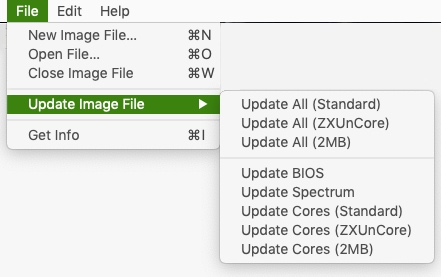
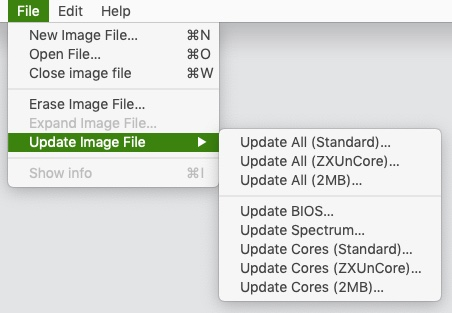
Aded GUI options to erase or expand a flash image

diff --git a/docs/es/manual.html b/docs/es/manual.html
@@ -746,10 +746,10 @@ pre.rouge {
 <p>Para Cores secundarios, mostrar información sobre algunas de las características que podrían tener (Ej: Salida por VGA, uso de joystick, formato soportado de tarjeta SD o MicroSD, etc.)</p>
 </li>
 <li>
-<p>Crear una copia de la imagen y, opcionalmente, truncar alguno (o todos) los cores opcionales (sólo desde la línea de comandos)</p>
+<p>Borrar con ceros todos los datos de los Cores y las ROMs de ZX Spectrum</p>
 </li>
 <li>
-<p>Borrar con 0s todos los datos de los Cores y las ROMs de ZX Spectrum (sólo desde la línea de comandos)</p>
+<p>Crear una copia de la imagen y, opcionalmente, truncar alguno (o todos) los cores opcionales (sólo desde la línea de comandos)</p>
 </li>
 <li>
 <p>Mostrar, añadir o extraer ROMs de un fichero ROMPack v2 (sólo desde la línea de comandos)</p>
@@ -831,11 +831,12 @@ pre.rouge {
 <p><span class="image"><img src="../img/MainWindow.jpg" alt="MainWindow"></span></p>
 </div>
 <div class="paragraph">
-<p>Además, existe un menú desde el que se accede a opciones que permiten crear un nuevo archivo de imagen SPI flash, abrir un fichero existente (de imagen o de otro tipo) para analizarlo o modificarlo (sólo si es de imagen flash), cerrar la edición, <a href="#_actualizar_una_imagen">actualizar el contenido de una imagen</a> o mostrar detalles del core actualmente seleccionado.</p>
+<p>Además, existe un menú desde el que se accede a opciones que permiten crear un nuevo archivo de imagen SPI flash, abrir un fichero existente (de imagen o de otro tipo) para analizarlo o modificarlo (sólo si es de imagen flash), borrar con ceros todos los datos de los Cores y las ROMs, expandir una imagen de ZXDOS+ de 16MB a 32MB, cerrar la edición, <a href="#_actualizar_una_imagen">actualizar el contenido de una imagen</a> o mostrar detalles del core actualmente seleccionado.</p>
 </div>
 <div class="paragraph text-center">
 <p><span class="image"><img src="../img/FileMenu.jpg" alt="FileMenu"></span></p>
 </div>
+<div style="page-break-after: always;"></div>
 <div class="paragraph">
 <p>Al abrir un fichero que no sea de imagen, la herramienta intentará catalogarlo y mostrar los detalles conocidos del mismo:</p>
 </div>
@@ -906,7 +907,6 @@ pre.rouge {
 <div class="paragraph text-center">
 <p><span class="image"><img src="../img/Spectrum.jpg" alt="Spectrum"></span></p>
 </div>
-<div style="page-break-after: always;"></div>
 </div>
 <div class="sect3">
 <h4 id="_cores_secundarios">Cores Secundarios</h4>
@@ -937,6 +937,7 @@ pre.rouge {
 <div class="paragraph text-center">
 <p><span class="image"><img src="../img/ROMsSelect.jpg" alt="ROMsSelect"></span></p>
 </div>
+<div style="page-break-after: always;"></div>
 <div class="paragraph">
 <p>Al cargar un fichero de ROM, se pueden especificar los indicadores para usar al utilizar la ROM, como la contención de memoria, DivMMC, timings de distintos modelos de Spectrum, etc.</p>
 </div>
@@ -1590,7 +1591,7 @@ All rights reserved.</p>
 <div id="footer">
 <div id="footer-text">
 Version 1.0.0<br>
-Last updated 2021-12-19 10:48:05 +0100
+Last updated 2021-12-19 16:07:07 +0100
 </div>
 </div>
 </body>

diff --git a/docs/en/manual.html b/docs/en/manual.html
@@ -746,10 +746,10 @@ pre.rouge {
 <p>For secondary cores, show information about some of the features that they may have (e.g. VGA video out, joystick support, supported SD or microSD formats, etc.)</p>
 </li>
 <li>
-<p>Create a copy of the flash image and, optionally, and/or truncate some (or all) of the optional cores (command line only)</p>
+<p>Wipe with zeros all Cores and ZX Spectrum ROMs data</p>
 </li>
 <li>
-<p>Wipe with 0s all Cores an ZX Spectrum ROMs data (command line only)</p>
+<p>Create a copy of the flash image and, optionally, and/or truncate some (or all) of the optional cores (command line only)</p>
 </li>
 <li>
 <p>List, add or extract ROMs from a ROMPack v2 file (command line only)</p>
@@ -831,11 +831,12 @@ pre.rouge {
 <p><span class="image"><img src="../img/MainWindow.jpg" alt="MainWindow"></span></p>
 </div>
 <div class="paragraph">
-<p>There&#8217;s also a menu wher you can access options to create a new SPI flash image file, open an existing file (either image or other kind) to anlyze or edit (only if it&#8217;s a flash image), stop editing <a href="#_update_an_image">update the contents of an image</a>, or show details for the currently selected core.</p>
+<p>There&#8217;s also a menu wher you can access options to create a new SPI flash image file, open an existing file (either image or other kind) to analyze or edit (only if it&#8217;s a flash image), wipe with zeros all the cores and ROMs data, expand a 16MB ZXDOS+ image to 32MB, stop editing, <a href="#_update_an_image">update the contents of an image</a>, or show details for the currently selected core.</p>
 </div>
 <div class="paragraph text-center">
 <p><span class="image"><img src="../img/FileMenu.jpg" alt="FileMenu"></span></p>
 </div>
+<div style="page-break-after: always;"></div>
 <div class="paragraph">
 <p>When opening a non-image file, the tool will try to analyze and catalog it&#8217;s contents and show the known details for it:</p>
 </div>
@@ -845,7 +846,6 @@ pre.rouge {
 <div class="paragraph">
 <p>Once an image file is open to edit, it&#8217;s possible to make the following modifications.</p>
 </div>
-<div style="page-break-after: always;"></div>
 <div class="sect3">
 <h4 id="_bios">BIOS</h4>
 <div class="paragraph">
@@ -910,7 +910,6 @@ Boot Timer</p></td>
 <div class="paragraph text-center">
 <p><span class="image"><img src="../img/Spectrum.jpg" alt="Spectrum"></span></p>
 </div>
-<div style="page-break-after: always;"></div>
 </div>
 <div class="sect3">
 <h4 id="_secondary_cores">Secondary cores</h4>
@@ -950,7 +949,6 @@ Boot Timer</p></td>
 <div class="paragraph">
 <p>The settings for each ROM are listed with a letter code that is explained in the <a href="#_rom_parameters">appendix at the end of this manual</a>.</p>
 </div>
-<div style="page-break-after: always;"></div>
 </div>
 <div class="sect3">
 <h4 id="_update_an_image">Update an image</h4>
@@ -1597,7 +1595,7 @@ All rights reserved.</p>
 <div id="footer">
 <div id="footer-text">
 Version 1.0.0<br>
-Last updated 2021-12-19 10:47:26 +0100
+Last updated 2021-12-19 16:09:30 +0100
 </div>
 </div>
 </body>

diff --git a/zx123_tool_gui/_main_gui.py b/zx123_tool_gui/_main_gui.py
@@ -31,38 +31,40 @@ def build_menubar(self):
 
     menubar = tk.Menu(self)
     filemenu = tk.Menu(menubar, tearoff=0)
-    filemenu.add_command(label='New Image File...',
+    filemenu.add_command(label='New Image File…',
                          command=self.new_image,
                          accelerator=f'{str_accl}n')
-    filemenu.add_command(label='Open File...',
+    filemenu.add_command(label='Open File…',
                          command=self.open_file,
                          accelerator=f'{str_accl}O')
-    filemenu.add_command(label='Close Image File',
+    filemenu.add_command(label='Close File',
                          accelerator=f'{str_accl}w',
                          command=self.full_close_image)
     filemenu.add_separator()
 
     updatemenu = tk.Menu(menubar, tearoff=0)
-    updatemenu.add_command(label='Update All (Standard)',
+    filemenu.add_command(label='Erase Image File…', command=self.erase_image)
+    filemenu.add_command(label='Expand Image File…', command=self.expand_image)
+    updatemenu.add_command(label='Update All (Standard)…',
                            command=lambda: self.update_image('all'))
     updatemenu.add_command(
-        label='Update All (ZXUnCore)',
+        label='Update All (ZXUnCore)…',
         command=lambda: self.update_image('all', get_1core=True))
     updatemenu.add_command(
-        label='Update All (2MB)',
+        label='Update All (2MB)…',
         command=lambda: self.update_image('all', get_2mb=True))
     updatemenu.add_separator()
-    updatemenu.add_command(label='Update BIOS',
+    updatemenu.add_command(label='Update BIOS…',
                            command=lambda: self.update_image('BIOS'))
-    updatemenu.add_command(label='Update Spectrum',
+    updatemenu.add_command(label='Update Spectrum…',
                            command=lambda: self.update_image('Spectrum'))
-    updatemenu.add_command(label='Update Cores (Standard)',
+    updatemenu.add_command(label='Update Cores (Standard)…',
                            command=lambda: self.update_image('Cores'))
     updatemenu.add_command(
-        label='Update Cores (ZXUnCore)',
+        label='Update Cores (ZXUnCore)…',
         command=lambda: self.update_image('Cores', get_1core=True))
     updatemenu.add_command(
-        label='Update Cores (2MB)',
+        label='Update Cores (2MB)…',
         command=lambda: self.update_image('Cores', get_1core=True))
     filemenu.add_cascade(label='Update Image File', menu=updatemenu)
 
@@ -117,7 +119,9 @@ def build_menubar(self):
 
     self.filemenu.entryconfig(2, state='disabled')
     self.filemenu.entryconfig(4, state='disabled')
+    self.filemenu.entryconfig(5, state='disabled')
     self.filemenu.entryconfig(6, state='disabled')
+    self.filemenu.entryconfig(8, state='disabled')
     self.core_menu.entryconfig(0, state='disabled')
     self.json_menu.entryconfig(2, state='disabled')
 

diff --git a/zx123_tool.py b/zx123_tool.py
@@ -1491,15 +1491,11 @@ def wipe_zxdata(str_spi_file,
     """
     Wipe all cores and ROMs
     :param str_spi_file: Input SPI flash file
-    :param arr_in_files: Array with parameters and files to inject
     :param str_outfile: New SPI flash file to create
-    :param fullhash_dict: Dictionary with hashes data
-    :param str_extension: SPI Flash extension
+    :param hash_dict: Dictionary with hashes data
     :param vid_mode: Video mode: 0 (PAL), 1 (NTSC) or 2 (VGA)
     :param keyb_layout: 0 (Auto), 1 (ES), 2 (EN) or 3 (Spectrum)
     :param boot_timer: 0 (No timer), 1, 2 (2x), 3 (4x), 4 (8x)
-    :param default_core: Default boot core (0 and up)
-    :param default_rom: :Default boot Spectrum ROM (0 or greater)
     :param b_force: Force overwriting file
     """
 
